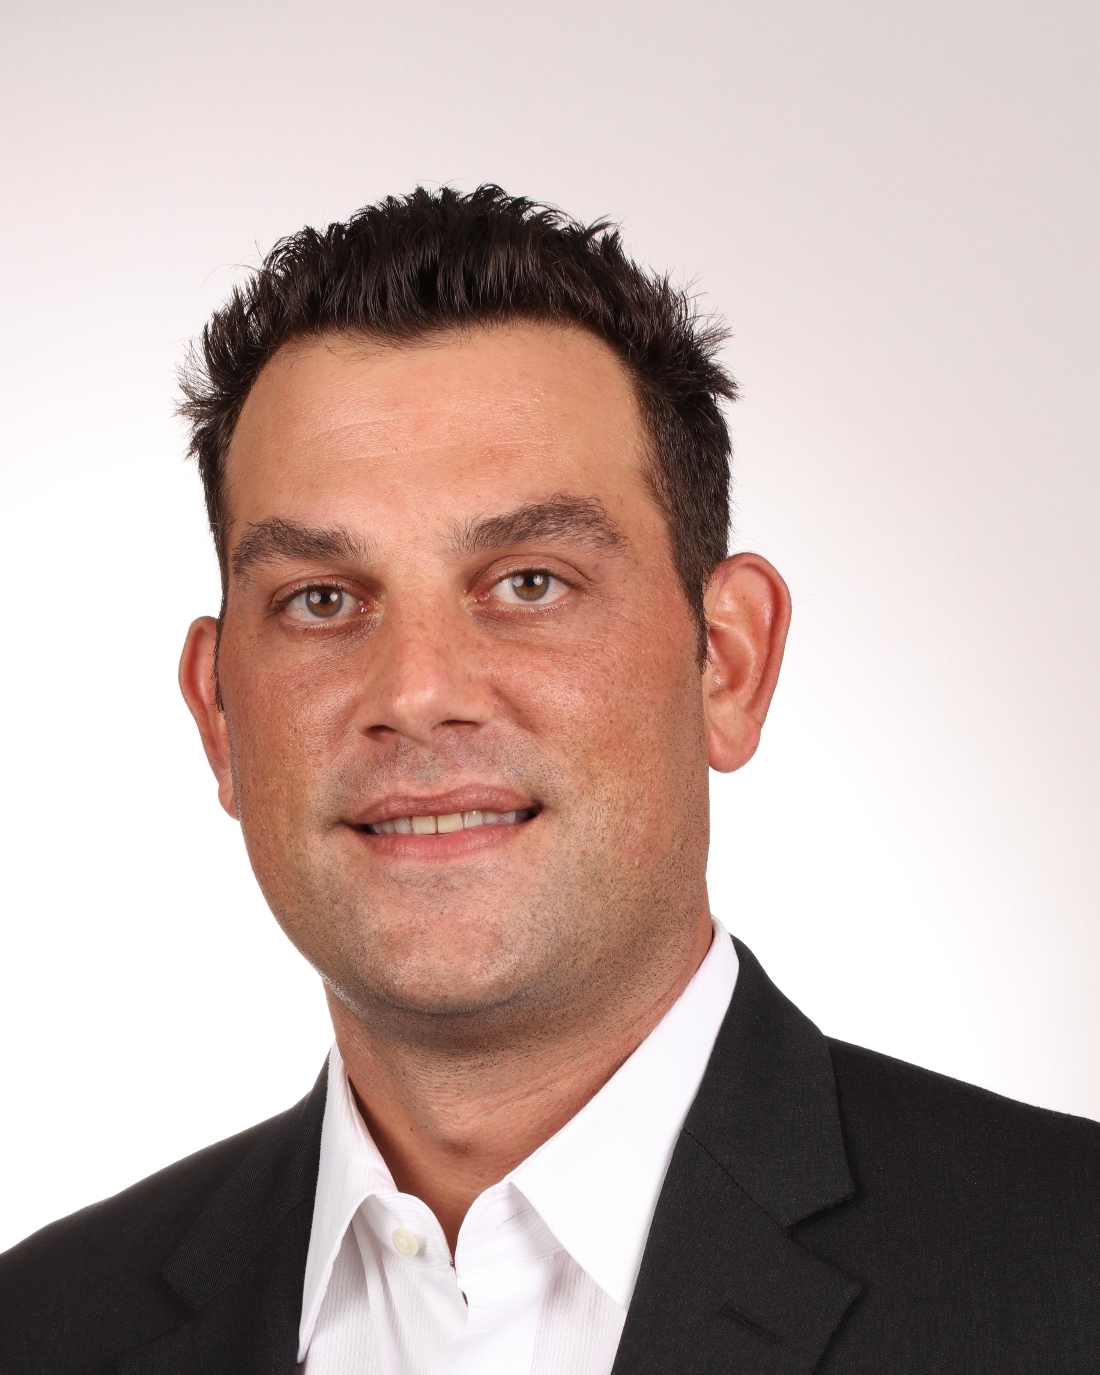
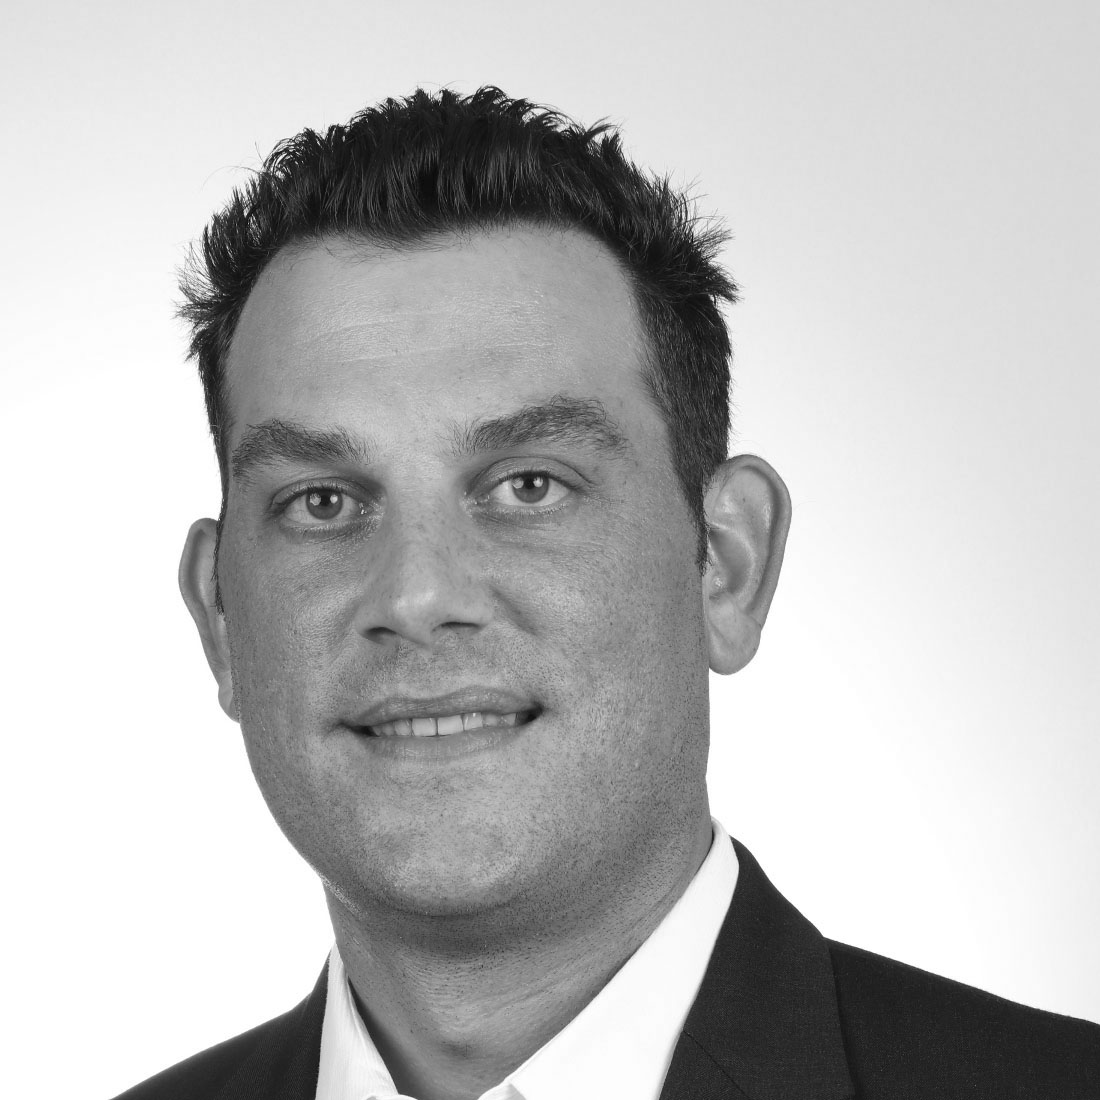
remove background and update photos

diff --git a/index.html b/index.html
@@ -18,8 +18,8 @@
 <body>
   <nav class="navbar navbar-light  navbar-expand-sm fixed-top">
     <a class="navbar-brand" href="index.html">
-      <img src="img/indentlogo.jpg" width="60px" alt="logo">
-      <p>InDent</p>
+      <img src="img/navbar-logo.png" width="60px" alt="logo">
+      <p class="navbar-title">InDent</p>
     </a>
     <button class="navbar-toggler" type="button" data-toggle="collapse" data-target="#navbar-list"
       aria-controls="navbarNav" aria-expanded="false" aria-label="Toggle navigation">
@@ -44,16 +44,16 @@
         <li class="nav-item">
           <a class="nav-link" href="#publications">Publications</a>
         </li>
+        <li class="nav-item">
+          <a class="nav-link" href="#contactus">Contact us</a>
+        </li>
       </ul>
     </div>
   </nav>
-  <div class="container-fluid">
-    <div class="cover">
-      <div class="inner">
-        <!-- <h1 class="text-center">International Dentristy Research Group</h1> -->
-        <div class="section row justify-content-center">
+  <div class="container-fluid cover">
+        <div class="section row justify-content-center ">
           <div class="col-8 col-lg-3 text-center">
-            <img src="img/indentlogoandtitle.jpg" width="80%" class="remove-bg" alt="Logo with company name">
+            <img class="home-img" src="img/indent-title.png" width="180%" class="remove-bg" alt="Logo with company name">
             <p> Lorem, ipsum dolor sit amet consectetur adipisicing elit. Sit facilis minus et error voluptatem vel
               praesentium quis laboriosam aliquid possimus autem velit, quisquam delectus eaque sint! Tempora inventore
               ullam veritatis?</p>
@@ -529,30 +529,26 @@
             <p><i class="bi bi-book"></i> Morgan B, Bauza G, Gardner O, Zhang Y, Levato R, Archer C, van Weeren R, Malda J, Conlan S, Francis L, Khan I. (2020). BMP9 is a potent chondrogenic and morphogenic factor for articular cartilage-derived chondroprogenitors. Stem Cells and Development. </p>
             <p><i class="bi bi-book"></i> Taraballi F, Pasto A, Bauza G, Varner C, Amadori A, & Tasciotti E. (2019). Immunomodulatory potential of mesenchymal stem cell role in diseases and therapies: A bioengineering prospective. Journal of immunology and regenerative medicine, 2019, 100017.</p>
           </div>
-        </div>
+        </div>        
         
-
+        
+        <footer>
+          <div class="container-fluid section" id="contactus" >
+            <div class="text-center logo">
+              <img width="150" src="img/indentlogo.jpg">
+            </div>
+            <p class="text-center">International Dentristy Research Group ® 2021</p>
+            <div class="text-center">
+              <a href="https://www.instagram.com/indent_research">
+                <i class="fab fa-instagram-square fa-3x"></i>
+              </a>
+              <i class="fab fa-facebook-square fa-3x"></i>
+              <i class="fab fa-linkedin fa-3x"></i>
+              <a href="mailto:info@indentresearch.com"> <i class="fas fa-envelope-square fa-3x"></i></a>
+            </div>
+          </div>
+        </footer>
       </div>
-    </div>
-  </div>
-
-
-  <footer>
-    <div class="container-fluid section" >
-      <div class="text-center logo">
-        <img width="150" src="img/indentlogo.jpg">
-      </div>
-      <p class="text-center">International Dentristy Research Group ® 2021</p>
-      <div class="text-center">
-        <a href="https://www.instagram.com/indent_research">
-          <i class="fab fa-instagram-square fa-4x"></i>
-        </a>
-        <i class="fab fa-facebook-square fa-4x"></i>
-        <i class="fab fa-linkedin fa-4x"></i>
-        <a href="mailto:info@indentresearch.com"> <i class="fas fa-envelope-square fa-4x"></i></a>
-      </div>
-    </div>
-  </footer>
 
   <!-- jQuery first, then Popper.js, then Bootstrap JS -->
   <script src="https://code.jquery.com/jquery-3.5.1.min.js"

diff --git a/css/index.css b/css/index.css
@@ -5,10 +5,21 @@ html{
   border-radius: 4px;
   padding: 0.5rem;
   margin: 0.2rem;
-  background-color: salmon;
-  color: navy;
 }
-
+.navbar-title{
+  color: #0078A9;
+  margin-bottom: 0.1em;
+}
+.nav-link{
+  font-size: 1.5em;
+}
+.dropdown-item{
+  font-size: 1.2em;
+}
+nav{
+  padding-top: 0em  !important;
+  padding-bottom: 0em !important;
+}
 .bigpanel{
   border-radius: 4px;
   padding: 0.5rem;
@@ -32,7 +43,6 @@ footer a{
 .navbar{
   background-color: #f1f0ee;
 }
-
 .logo{
   padding-bottom: 2em;
   padding-top: 2em;
@@ -44,26 +54,19 @@ footer a{
 .our_focus{
   padding-top: 2em;
   color: white;
-  background-color: rgba(92, 108, 124, 0.9);
-}
-.line-panel{
-  color: white;
-  background-color:rgba(43, 59, 82, 0.9);
-}
-.line-button{
-  color: white !important;
-}
-.panel-line{
-  background-color: rgb(89,110, 140) !important;
-}
-.list-group-line .list-group-item{
-  color: white;
-  background-color:rgba(43, 59, 82, 0.9);
+  border-style: solid;
+  border-width: thin;
+  border-color: white;
 }
 .lines{
-  background-color:rgba(43, 59, 82, 0.9);
   color: white;
   padding-top: 2em;
+  border-style: solid;
+  border-width: thin;
+  border-color: white;
+}
+.line-panel{
+  color: black;
 }
 .doctors{
   padding-top: 2em;
@@ -71,7 +74,9 @@ footer a{
   padding-left: 1em;
   padding-bottom: 2em;
   color: white;
-  background-color: rgba(92, 108, 124, 0.9);
+  border-style: solid;
+  border-width: thin;
+  border-color: white;
 }
 .doctor{
   margin-top: 8em;
@@ -92,26 +97,31 @@ footer a{
   font-size: 120%;
 }
 .cover {
-  background-image: url(../img/background-65.png);
+  background: 
+    linear-gradient(
+      rgba(0, 0, 0, 0.7),
+      rgba(0, 0, 0, 0.7)
+    ),
+    url(../img/background.jpg);
   background-position: center center;
   background-repeat: no-repeat;
   background-attachment: fixed;
   background-size: cover;
-  background-color:#353635;
-  color: black;
-}
-.inner{
-  padding-top: 5%;
-  background-color: rgba(112, 139, 129, 0.7);
-  padding-bottom: 1%;
   color: white;
 }
-.accordion{
+.home-img{
+  background: 
+    linear-gradient(
+      rgba(0, 0, 0, 1),
+      rgba(0, 0, 0, 1)
+    ),
+}
+/* .accordion{
   color: black;
 }
 .panel-default > .panel-line {
   background-color: #f1f0ee;
-}
+} */
 .dicon{
   padding-right: 0.5em;
 }
@@ -119,10 +129,11 @@ footer a{
 {
   padding-top: 2em;
   padding-bottom: 3em;
-  color: white;
-  background-color: rgba(92, 108, 124, 0.9);
   padding-left: 1em;
   padding-right: 1em;
+  border-style: solid;
+  border-width: thin;
+  border-color: white;
 }
 @media (max-width: 600px) {
   .dicon {
